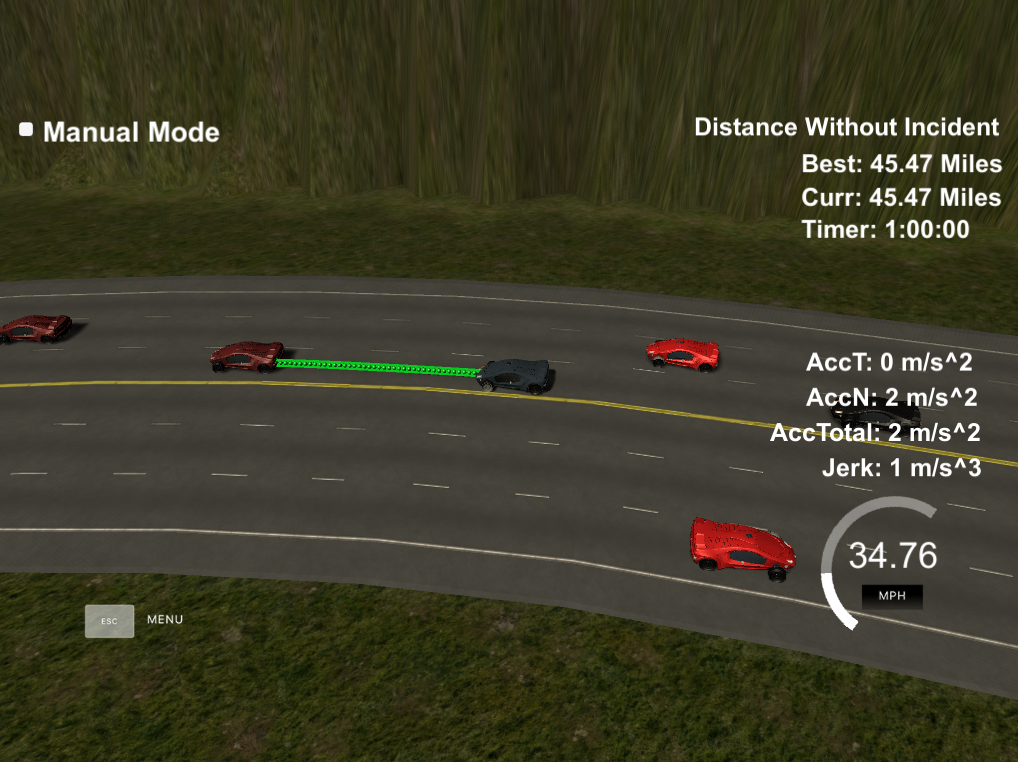
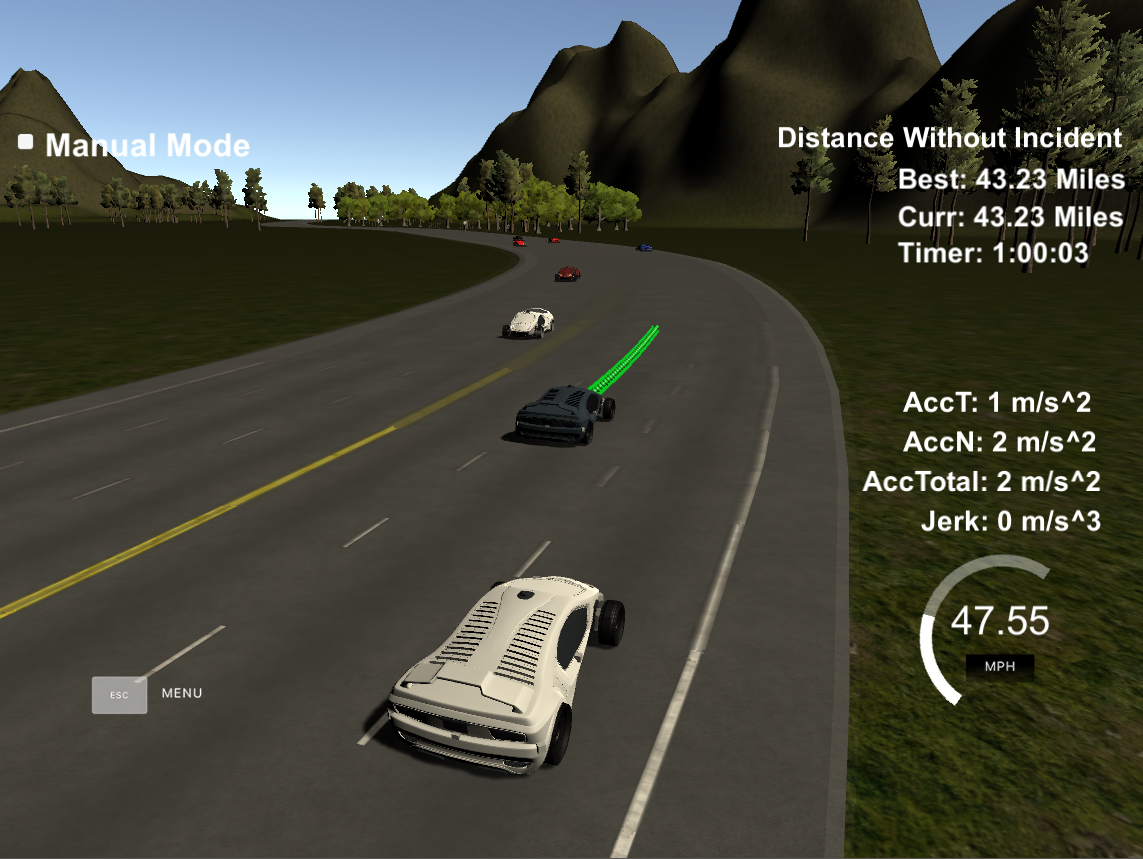
doc updates

diff --git a/README.md b/README.md
@@ -3,9 +3,25 @@
 [//]: # (Image References)
 [image1]: ./doc/full_nav3x.gif  "3x"
 [image2]: ./doc/FSM.PNG "FSM"
+[image3]: ./doc/best.PNG "best"
+[image4]: ./doc/target_speed.gif "target"
+[image5]: ./doc/change_lanes.gif "init accel"
+[image6]: ./doc/initial_accel.gif "init accel"
+[image7]: ./doc/double.gif "double"
+[image8]: ./doc/no_double.gif "no double"
+[image9]: ./doc/max_acc.gif "max acc"
+[image10]: ./doc/max_acc2.gif "max acc2"
+[image11]: ./doc/1hr.png "1hr"
+[image12]: ./doc/1hr_before_tweaks.png "1hr b4"
+[image13]: ./doc/wrap_collision.gif "wrap collision"
+[image14]: ./doc/lane_collision.gif "lane collision"
+[image15]: ./doc/lane_collision_2.gif "lane collision 2"
+[image16]: ./doc/lane_collision_3.gif "lane collision 3"
+[image17]: ./doc/lane_collision_4.gif "lane collision 4"
+[image18]: ./doc/lane_blocked.gif "lane blocked"
 
 ## Project Introduction
-In this project, I implemented a path planner in C++ to navigate through traffic around a 6946m highway loop. The planner takes in current trajectory information (ex. position, speed, yaw) and "sensor fusion" data, which is the same trajectory information for surrounding cars.  It then determines the best trajectory based on the current and predicted states of all cars by using a cost function, which is tuned to avoid accidents and travel at the maximum safe speed.  It then generates a smooth trajectory using an open source [spline implementation](http://kluge.in-chemnitz.de/opensource/spline/).  In the project simulator, the result looks like this (video is at 3x speed due to gif size limitations):
+In this project, I implemented a path planner in C++ to navigate through traffic around a 6946m highway loop. The planner takes in current trajectory information (ex. position, speed, yaw) and "sensor fusion" data, which is the same trajectory information for surrounding cars.  It then determines the best trajectory based on the current and predicted states of all cars by using a cost function, which is tuned to avoid accidents and travel at the maximum safe speed.  It then generates a smooth trajectory for my car (aka. the "ego" car) using an open source [spline implementation](http://kluge.in-chemnitz.de/opensource/spline/).  In the project simulator, the result looks like this (video is at 3x speed due to gif size limitations):
 
 ![alt text][image1]
 
@@ -34,14 +50,16 @@ The Vehicle class uses the cost functions in `cost.cpp` to determine when/if it 
 |:---------------:|:-------:|:--------------------------------------------------------------:|
 | Lane Change     |  10^4 | If lane is different than current lane, cost is 1, otherwise 0 |
 | Efficiency      |  10^5 | Difference between lane speed and target speed                 |
-| Lane Congestion |  10^5 | Amount of vehicles within twice the vehicle "buffer" (25m)     |
+| Lane Congestion |  10^5 | Amount of vehicles within twice the vehicle "buffer" (30m)     |
 | Lane Danger     |  10^8 | How close we are to vehicles within "danger buffer" (10m)      |
 
 Once a state is chosen, it helps us determine the desired lane, and desired speed.  The desired speed is either the target speed (which is set to 47mph to avoid exceeding the speed limit), or the speed that will cause us to keep the desired "buffer" (25m) from the car ahead in that lane. The desired lane and speed is sent to the trajectory generation.  
 
 ### Trajectory generation
 
-The final (and what ended up being the most complex) part of the problem was generating smooth trajectories that did not exceed the maximum jerk or acceleration limits.  In main.cpp, you can find the trajectory generation logic.  The project materials described generation of "Jerk Minimizing Trajectories", but this involved a significant amount of complex vector math.  Instead, the project materials suggested using an open source [spline implementation](http://kluge.in-chemnitz.de/opensource/spline/), which generates a "spline" between a given set of points.  The Project Q&A session described a single spline approach for x/y values, which worked well for a constant speed, but generating a smooth acceleration using this method proved to be _extremely_ difficult, as the desired acceleration is along the [frenet](https://medium.com/@kastsiukavets.alena/highway-path-planning-696215cbf062) "s" vector.  Thus, I setup two splines, one that mapped s vs. x vals, and one mapping s vs. y values.  Then I could purely use the frenet s values to generate the desired trajectory, and use the splines to calculate the x/y values expected by the simulator.  To change lanes, I simply modified the frenet d value by the desired amount in the initial splines.  Trajectory generation is implemented in `main.cpp` between lines 355-491.
+The final (and what ended up being the most complex) part of the problem was generating smooth trajectories that did not exceed the maximum jerk or acceleration limits.  In main.cpp, you can find the trajectory generation logic.  The project materials described generation of "Jerk Minimizing Trajectories", but this involved a significant amount of complex vector math.  Instead, the project materials suggested using an open source [spline implementation](http://kluge.in-chemnitz.de/opensource/spline/), which generates a "spline" between a given set of points.  The Project Q&A session described a single spline approach for x/y values, and the basic idea here is what I used.  In short, I gather two previous points not used by the simulator in the last step as a starting point, then add 3 "horizon" points ahead.  I chose the horizon points to be at intervals of 45 meters as this lead to fairly smooth lane changes. 
+
+This worked well for a constant speed, but generating a smooth acceleration using this method proved to be _extremely_ difficult, as the desired acceleration is along the [frenet](https://medium.com/@kastsiukavets.alena/highway-path-planning-696215cbf062) "s" vector.  Thus, I setup two splines, one that mapped s vs. x vals, and one mapping s vs. y values.  Then I could purely use the frenet s values to generate the desired trajectory, and use the splines to calculate the x/y values expected by the simulator.  To change lanes, I simply modified the frenet d value by the desired amount in the initial splines.  Trajectory generation is implemented in `main.cpp` between lines 355-491.
 
 ## [Rubric Points](https://review.udacity.com/#!/rubrics/1020/view)
 
@@ -84,15 +102,108 @@ You can download the Term3 Simulator which contains the Path Planning Project fr
 
 #### The car is able to drive at least 4.32 miles without incident
 
-#### The car drives according to the speed limit.
+This was easily achieved early on, but I wanted to see how far I could get. After all the tweaks I made (which will be described in more detail below), my longest run was was 62.49 miles:
 
-#### Max Acceleration and Jerk are not Exceeded.
+![alt text][image3]  
 
-#### Car does not have collisions.
+#### The car drives according to the speed limit
 
-#### The car stays in its lane, except for the time between changing lanes.
+I set my initial target speed to 49mph, but occasional latency in adjusting the acceleration sometimes caused the car to go beyond the speed limit.  Thus, I adjust the target speed back down to 47 mph to avoid ever exceeding the 50mph limit: 
+
+![alt text][image4]
+
+#### The car stays in its lane, except for the time between changing lanes
+
+Using the described trajectory generation along the provided map waypoints, this was fairly easy to achieve.  This should be evident in all the clips seen on this page.
+
+Another aspect of this is the cost value I added for lane changes.  Although it is the smallest contributing factor in the equation, if all other costs are equal, the car will not change lanes.
 
 #### The car is able to change lanes
 
+This was achieved during trajectory generation by setting the "horizon" waypoints in the initial spline to be in the desired lane: 
+
+This caused the lane change to occur before the first horizon point. 
+
+![alt text][image5] 
+
+By tuning the "cost" value of the efficiency metric (i.e. the difference between the current lane speed and the target lane speed), I was able to remain at the target speed most times.  This can be seen from the following screenshot, captured after 1 hour using my final parameters:
+
+![alt text][image11]
+
+As you can see, the average speed over that hour was just over 43 mph.  Before some of my final tweaks to increase overall safety (will be discussed in the "Car does not have collisions" section), my average speed over 1 hour was about 45.5 mph:
+
+![alt text][image12]
+
+Another way I could have improved the overall efficiency is by allowing the cost functions to examine lanes that are not directly adjacent.  Take, for example, the following clip:
+
+![alt text][image18]
+
+As you can see, my vehicle does not change lanes because there is a car in the danger buffer moving slightly slower in the next lane.  However, the far left lane is wide open.  If the ego car were to slow down, change lanes, and then do so again, it would be much further ahead.  I decided against this as I ultimately weighted safety over efficiency.  
+
+#### Max Acceleration and Jerk are not Exceeded
+
+After figuring out how to smoothly apply acceleration using the method described in the Trajectory Generation section, it was fairly simple to limit the total tangential acceleration. As the trajectory in the direction of the frenet s vector is exactly that.  I started with a maximum tangential acceleration of 6m/s^2, and later dropped it to 5m/s^2 (half the total maximum acceleration of 10m/s^2).  Since each point sent to simulator represents 0.02 seconds, this meant only adding/subtracting .1m/s (5 * .02) to the speed each point.  Due to the latency inherent in measuring desired vs. actual kinematics, there is a bit of deviation from the total.  You can see by viewing the initial acceleration from 0 that the tangential acceleration (i.e. AccT) is pretty consistent at 5 m/s^2, with a momentary jump to 6 m/s^2:
+
+![alt text][image6] 
+
+Keeping this acceleration a constant also means the maximum tangential "jerk" (or change in acceleration) would be from 5m/s^2 to -5m/s^2, which would be 10 m/s^3.
+
+Using the spline to generate smooth trajectories within lanes and for lane changes was generally enough to avoid high values of normal acceleration (i.e. "AccN").  However, there were a few situations that caused the normal acceleration to exceed the maximum 10 m/s^2 value.
+
+The first thing I noticed was that the vehicle was sometimes making a rapid double lane change:
+
+![alt text][image7] 
+
+This was caused by the vehicle quickly transitioning between the following states: Keep Lane -> Prepare Lane Change -> Lane Change -> Keep Lane -> Prepare Lane Change -> Lane Change.  To avoid such a rapid shift across lanes, I added a state after both of the Lane change states called "Lane Change Cool Down", and setup a "cool down" counter which I configured to 50 steps.  This forces the car to wait 50 steps before another lane change.  This resulted in the following improved behavior:
+
+![alt text][image8]
+
+The next thing I discovered was that the car began accelerating rapidly in the lane change state to reach the target speed of the new lane.  This caused up to a maximum of 5 m/s^2 tangential acceleration, which was then added to the normal acceleration of the lane change.  Thus, the combination of the two could often exceed the total maximum acceleration of 10 m/s^2.  To remedy this, I changed the acceleration for matching the new lane to happen in the "prepare lane change" state, and then forced the velocity to be constant for the actual "lane change" state. This removed a significant amount of tangential acceleration from the lane change equation.
+
+The final thing I found was that occasionally, the total normal acceleration could still exceed 10 m/s^2 using the existing spline approach.  This only seemed to occur if there was some normal acceleration caused by a curve in the road, combined with a lane change in the same direction, all happening at relatively high speed.  Here are a few captured examples
+
+![alt text][image9] ![alt text][image10]
+
+After dropping my target tangential acceleration from 6m/s^2 to 5m/s^2, the frequency of these sharply dropped.  Also, my initial horizon value was 30 meters, and increasing this to 45 meters reduced the frequency of this even more, but did not completely eliminate them, especially for the sharpest turns on the course.  I was unable to come up with a way to guarantee this wouldn't happen without refactoring my entire approach to trajectory generation.  I assume using the JMT approach may have resolved it, but it did not seem worth the trade-off in complexity as the above situations became quite rare after the tweaks noted above.  However, after all the tweaks that will be discussed in the "Car does not have collisions" section below, this actually was one of the most common "incidents" I continued to observe. 
+
+#### Car does not have collisions
+
+Collisions are avoided using 5 methods: 
+1. Keep a specified follow distance using a configurable "buffer" (initially set to 25m).
+2. Apply "emergency braking" (i.e. maximum deceleration) if a car enters the "danger" buffer (initially set to 8m).
+3. Avoid unnecessary lane changes (see "The car stays in its lane" section above)
+4. Avoid changing into "congested" lanes (i.e. lanes with more cars within the specified "buffer" than the current one, or cars approaching quickly from behind).
+5. Never change into a lane with any cars in the danger buffer, or that will be within the danger buffer after 1 second. 
+
+These methods are implemented throughout the behavior planning logic.  After the initial implementation, I examined the remaining collisions to improve my longest run without incident. 
+
+The first collision type I noticed was the ego car inexplicably accelerating into the back of another car it was following:
+
+![alt text][image13]
+
+It took me a while to figure out why this phenomenon was occurring, but I noticed it happened at the exact same point on the track each time.  After debugging, I discovered it happened when reaching the end of the loop, causing the frenet "s" values to wrap back to 0.  This caused the difference between the car ahead and the ego car to be greater than 6000m, so the ego car accelerated, seeing nothing in its way until it was too late.  Since the cars that showed up in sensor fusion had a limit much smaller than 6000m, I added some logic that would correct for huge s value differences by adding/subtracting the total track length from the s values in my prediction set.  This resolved this problem.
+
+The next collision types were more complex.  Most of them involved other vehicles _not_ moving at a constant speed, which was an assumption in predictions I took from the start.  However, they also lead to some fixes and tweaks in my planning logic.  Let's examine 4 captured collision clips:
+
+![alt text][image14]
+
+In this clip, the red car behind in the target lane briefly slows down, making it and it's predicted next state outside the danger buffer.  The ego car decides on a lane change, and then the car behind speeds up again, colliding with mine.  Since my lane choice was made before the other car's speed indicated it would collide with mine, there was no way to forsee the collision.   I increased the "danger buffer" from 8m to 10m to help avoid this in the future.
+
+![alt text][image15]
+
+The car ahead in white slams on its breaks (likely exceeding my maximum allowable deceleration).  My cost function now determines the distance to the car ahead is shorter than it would be in the next lane, so it tries to avoid the collision by switching to the next lane.  A real driver may have slammed on its own brakes, but since this also trips the "incident" trigger for deceleration, I'm not sure my planner could have made a better choice given its follow distance.  It did appear though that the follow distance seemed closer than it should have been, and I discovered a bug in my follow speed calculation.  I noticed similar incidents during other close follow scenarios, so I also increased my follow buffer to 30m for safety. 
+
+![alt text][image16]
+
+This exposed a flaw in my decision making.  Before the lane change, the white car briefly slows down, causing the "congestion" of that lane to be less than the ego car's current lane, and the white car to drop out of the "danger buffer" as it's speed is suspected to be constant.  This triggers a lane change.  Then the red car ahead slows slightly, causing the ego car to enter the danger buffer, which then triggers the emergency braking, causing the car behind to hit the ego car.  The next clip is similar:
+
+![alt text][image17]
+
+The ego car finds a faster lane, the car in the next lane brakes, the ego car applies emergency braking, and the car behind collides with it.  To account for this, I modified my "danger" cost to look for cars in twice the danger buffer (i.e. 20m), while still keeping the emergency braking buffer at 10m.   Thus, the ego car should avoid lane changes if cars are within 20m, which means it should rarely need to apply emergency braking after a lane change.  
+
+I did not observe this type of incident after these tweaks, however, as noted in the "The car is able to change lanes" this impacted my overall efficiency (dropping my average speed from 45.5mph to 43.2mph over 1 hour of measurement).  This, however, seemed like a worthwhile trade-off.
+
+The remaining collisions I observed typically felt outside of my control, like cars side swiping me, or rapid deceleration without a chance to change lanes to avoid it.   
 
 ### Reflection
+
